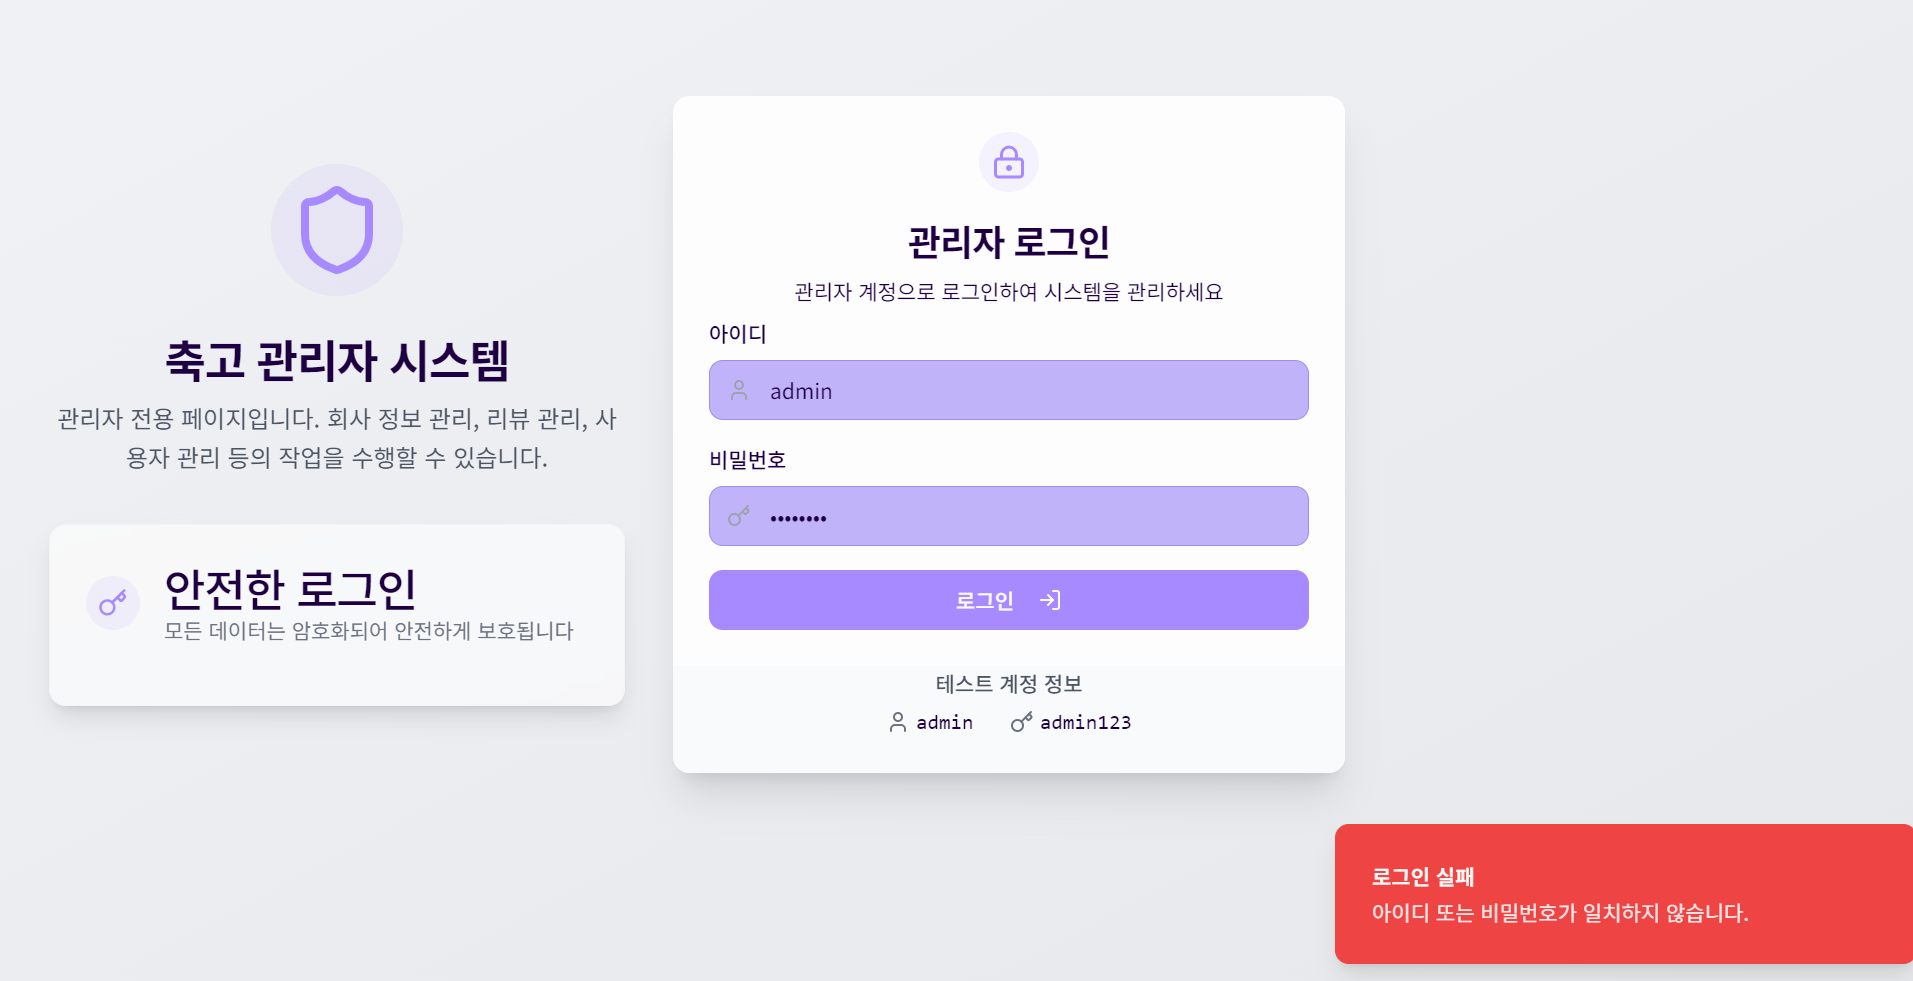
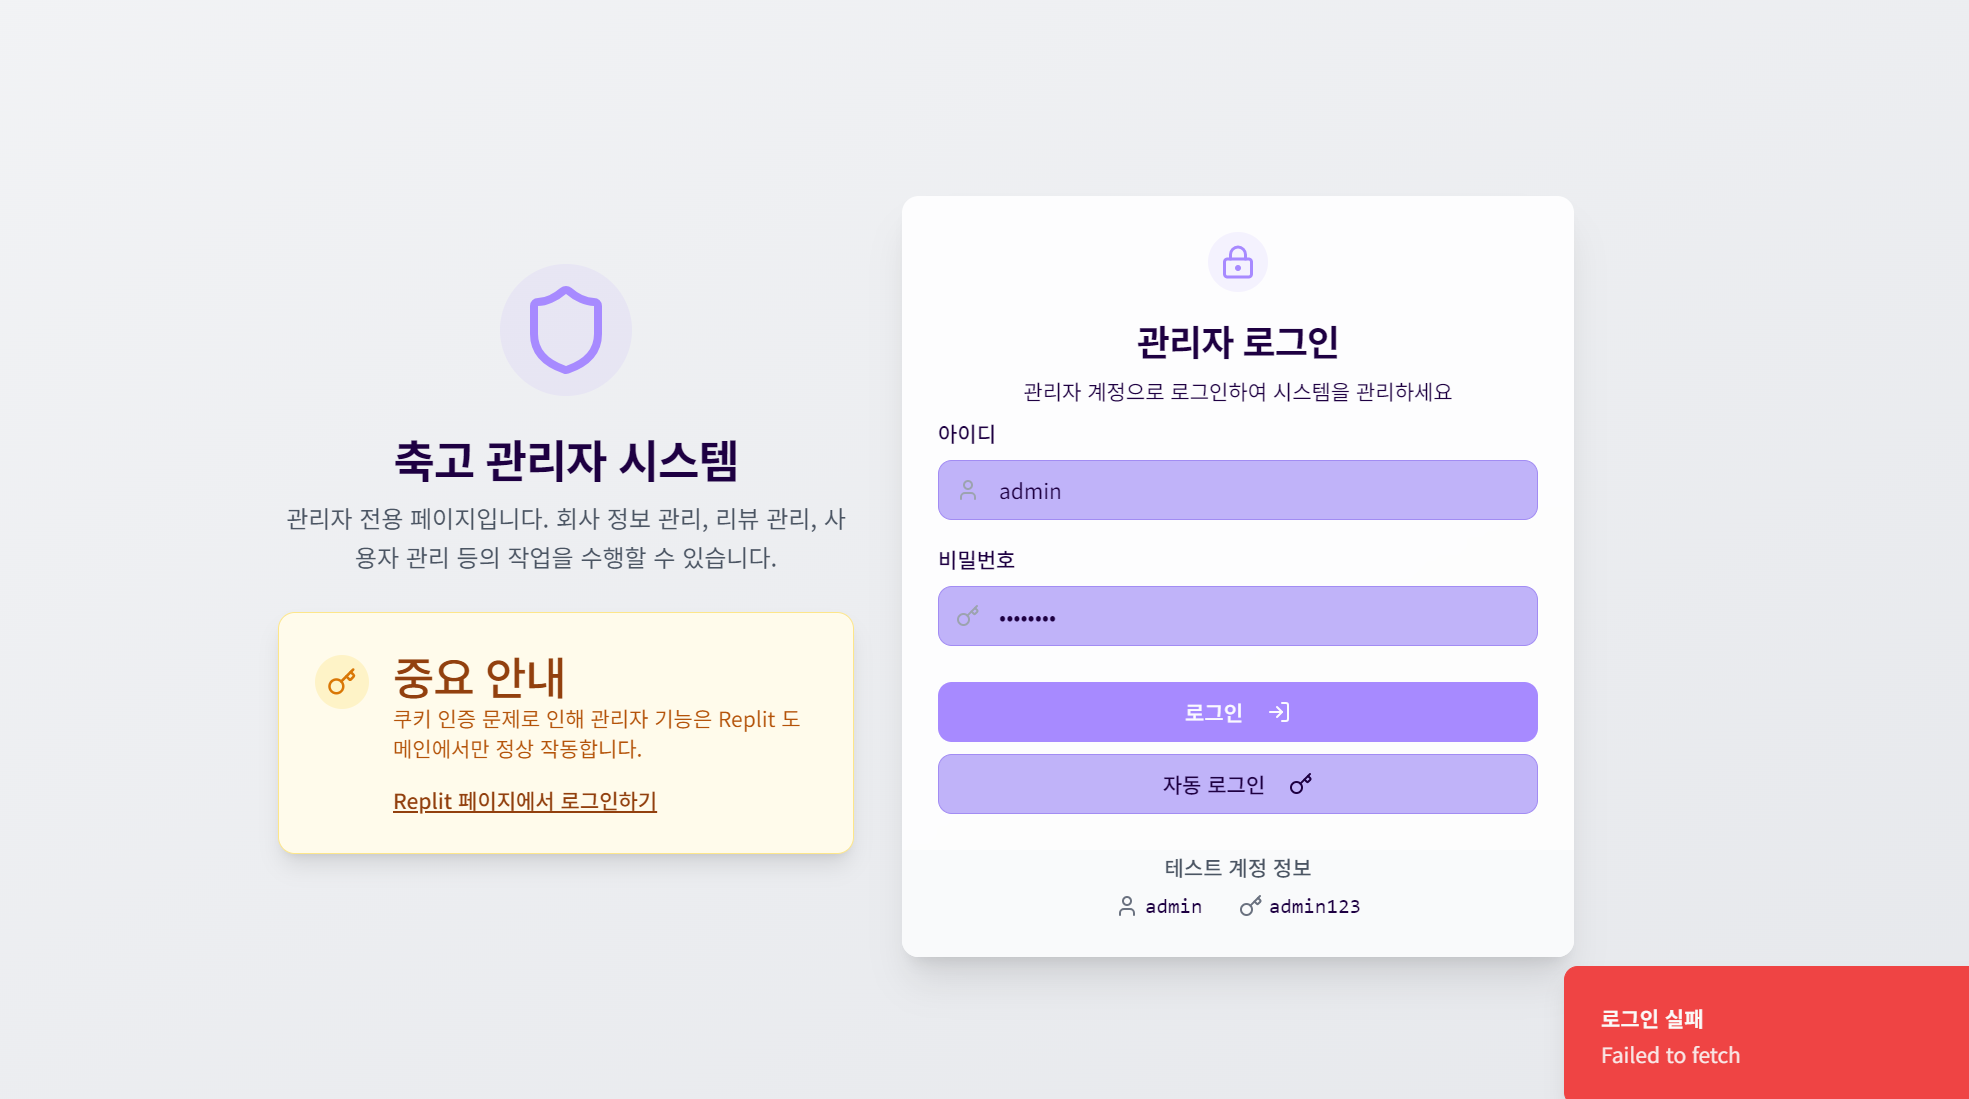
Fix admin login issue by allowing chukgo.kr domain in CORS configuration
Replit-Commit-Author: Agent
Replit-Commit-Session-Id: 318828ed-6979-4baf-bb1b-d99ff0cd194c
Replit-Commit-Screenshot-Url: https://storage.googleapis.com/screenshot-production-us-central1/e86b4446-0b3c-4054-bc06-598b63fcc248/5f3569b2-0ba3-4cca-b16d-20cbc2f058b3.jpg

diff --git a/server/routes.ts b/server/routes.ts
@@ -7,8 +7,17 @@ import { z } from "zod";
 import { setupAuth } from "./auth";
 import { WebSocketServer } from "ws";
 import WebSocket from "ws";
+import cors from "cors";
 
 export async function registerRoutes(app: Express): Promise<Server> {
+  // CORS 설정
+  app.use(cors({
+    origin: ["https://www.chukgo.kr", "https://chukgo.kr", "https://soccer-forland-bikekim0527.replit.app"],
+    credentials: true,
+    methods: ['GET', 'POST', 'PUT', 'DELETE', 'OPTIONS'],
+    allowedHeaders: ['Content-Type', 'Authorization', 'X-Cross-Domain-Login']
+  }));
+  
   // Set up auth with session and passport
   const { requireAuth, requireCoach } = setupAuth(app);
   // Get all lesson types

diff --git a/client/src/lib/redirect.ts b/client/src/lib/redirect.ts
@@ -9,6 +9,7 @@ export const API_SERVER = "https://soccer-forland-bikekim0527.replit.app";
 // 특정 도메인 간 허용 목록
 export const ALLOWED_DOMAINS = [
   "https://www.chukgo.kr", 
+  "https://chukgo.kr",
   "https://soccer-forland-bikekim0527.replit.app"
 ];
 
